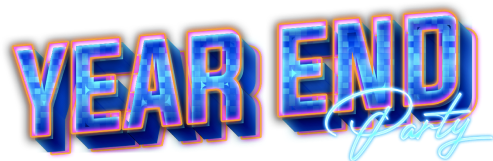
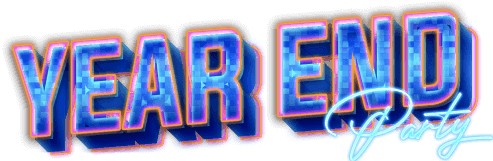
host image to reduce loading

diff --git a/src/components/Form.vue b/src/components/Form.vue
@@ -82,7 +82,7 @@ export default {
 <style lang="scss" scoped>
 .form {
   //   background: linear-gradient(180deg, #01002b 0%, #2421b4 100%);
-  background-image: url("../assets/form-background.png");
+  background-image: url("https://ahamove.com/wp-content/uploads/2021/01/form-background.png");
   background-position: center center;
   background-repeat: no-repeat;
   background-size: cover;

diff --git a/src/components/Banner.vue b/src/components/Banner.vue
@@ -7,7 +7,7 @@
         data-aos-delay="50"
         data-aos-duration="1000"
         data-aos-easing="ease-in-out"
-        src="@/assets/yep.png"
+        src="https://ahamove.com/wp-content/uploads/2021/01/yep.png"
         alt="Yep ahamove"
       />
       <img
